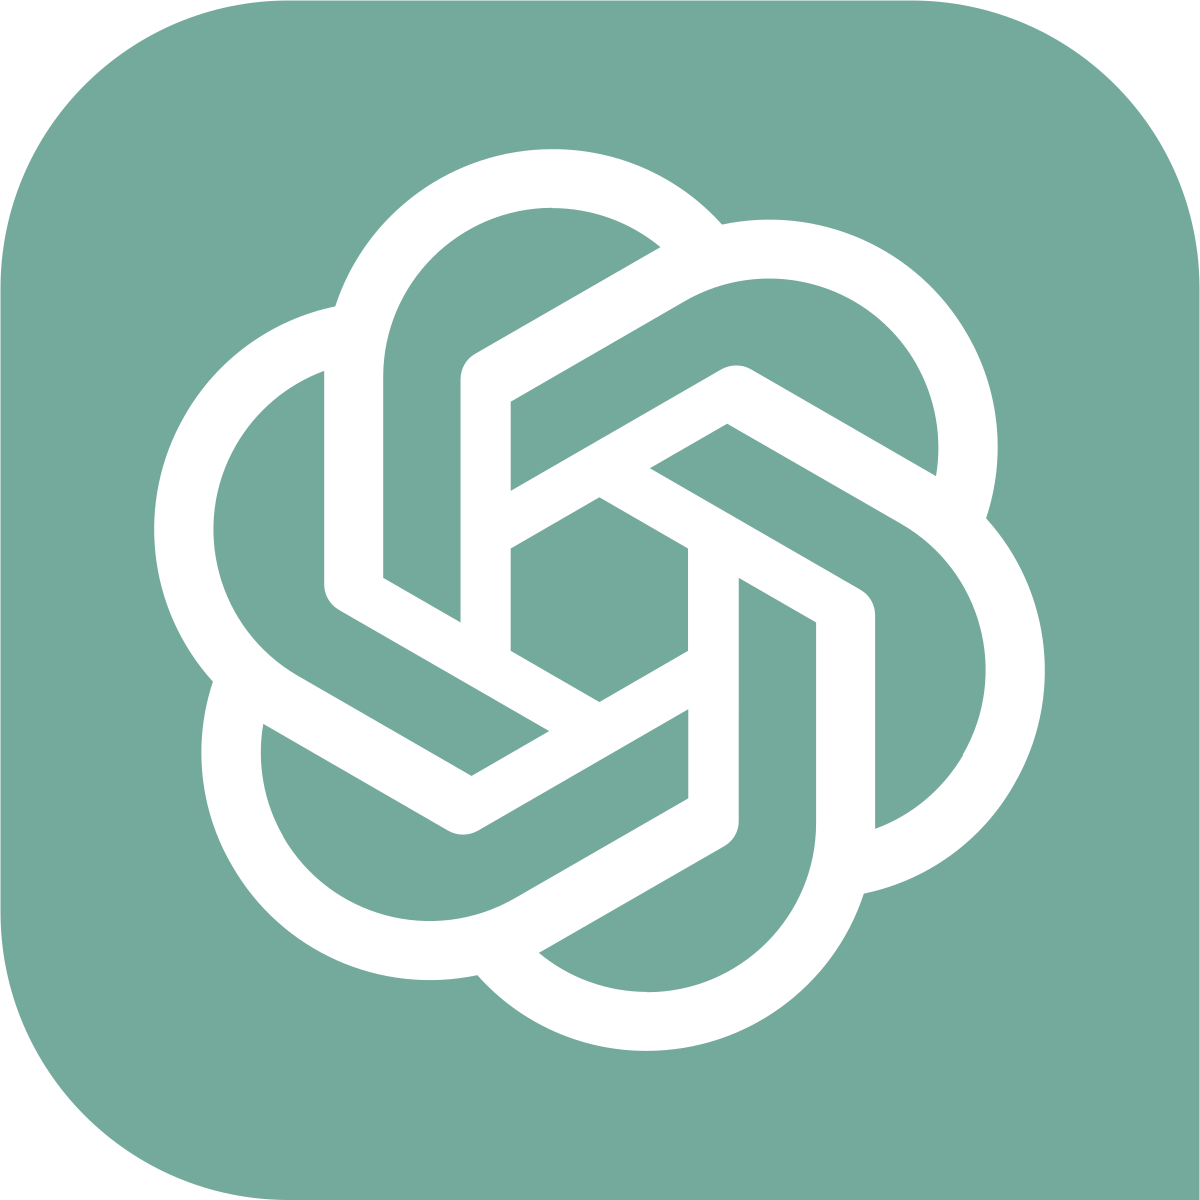
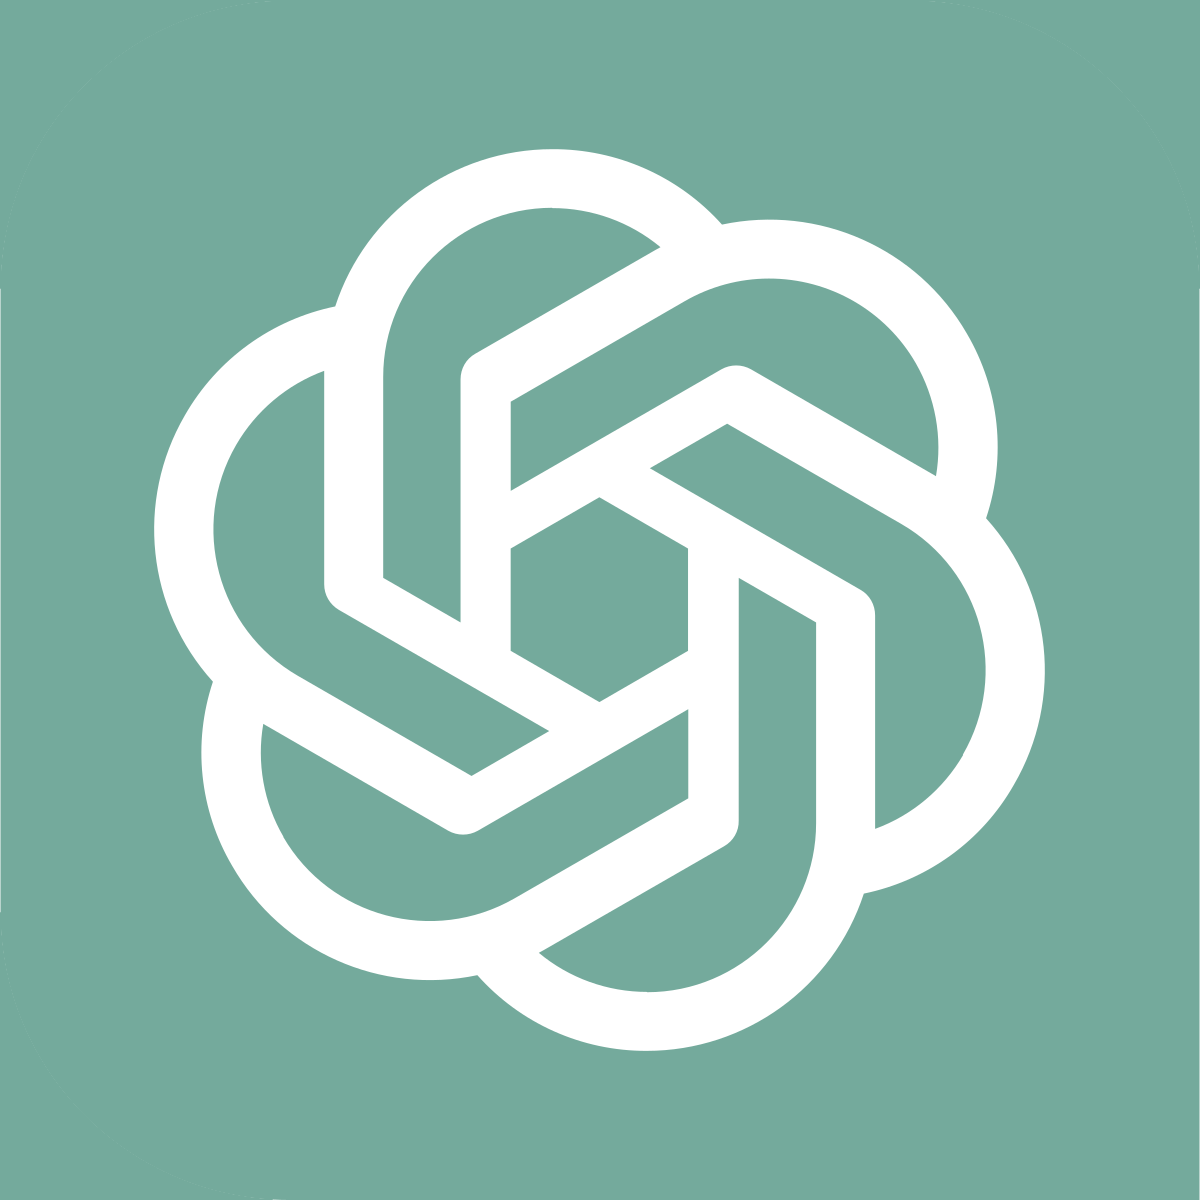
Tuned popup, added random link suggestions

Changed region(s): [[0.8017, 0.0, 1.0, 0.2158], [0.0, 0.8017, 0.2158, 1.0], [0.0, 0.0, 0.2158, 0.2158]]

diff --git a/static/outputs.css b/static/outputs.css
@@ -39,6 +39,7 @@ body {
   width: 18px;
   height: auto;
   margin-left: 5px;
+  box-shadow: 1px 1px 1px 1px rgba(0, 0, 0, 0.5);
 }
 
 #chat-container {
@@ -99,11 +100,24 @@ body {
   z-index: 997;
 }
 
-form {
+/* form {
   width: 100%;
   display: flex;
   justify-content: space-between;
   align-items: center;
+} */
+
+form {
+  display: flex;
+  flex-direction: column;
+  /* align-items: center; */
+  justify-content: center;
+  width: 100%;
+}
+
+form label,
+form input {
+  margin: 0px 1rem 0px 1rem;
 }
 
 /*
@@ -713,12 +727,16 @@ video {
 
 .popup {
   position: fixed;
-  top: 25%;
-  left: 0px;
-  height: 100%;
-  width: 100%;
+  top: 50%;
+  left: 50%;
+  transform: translate(-50%, -50%);
+  display: flex;
+  flex-direction: column;
   align-items: center;
-  justify-content: center;
+  /* background-color: rgba(255, 255, 255, 0); */
+  border-radius: 0.5rem;
+  padding: 0.5rem;
+  /* box-shadow: 0 10px 15px -3px rgba(0, 0, 0, 0.1), 0 4px 6px -4px rgba(0, 0, 0, 0.1); */
   z-index: 1000;
 }
 
@@ -728,41 +746,45 @@ video {
   background-color: rgba(255, 255, 255, 0.9);
   padding: 2rem;
   box-shadow: 0 10px 15px -3px rgba(0, 0, 0, 0.1), 0 4px 6px -4px rgba(0, 0, 0, 0.1);
+  max-width: 100%;
+  width: 100%;
+  height: 600px;
+  overflow: auto;
+  margin: auto;
+  scrollbar-width: 5px;
+  scrollbar-color: #888 #eee;
 }
 
-/* .popup {
-  position: fixed;
-  top: 25vh;
-  left: 25vh;
-  display: none;
-  height: 100%;
-  width: 100%;
-  align-items: center;
-  justify-content: center;
-  background-color: rgb(0 0 0 / var(--tw-bg-opacity));
-  --tw-bg-opacity: 0.7;
-} */
+.popup-content::-webkit-scrollbar {
+width: 10px;
+}
 
-/* .popup-content {
-  position: absolute;
-  border-radius: 0.5rem;
-  --tw-bg-opacity: 1;
-  background-color: rgb(255 255 255 / var(--tw-bg-opacity));
-  padding: 2rem;
-  --tw-shadow: 0 10px 15px -3px rgb(0 0 0 / 0.1), 0 4px 6px -4px rgb(0 0 0 / 0.1);
-  --tw-shadow-colored: 0 10px 15px -3px var(--tw-shadow-color), 0 4px 6px -4px var(--tw-shadow-color);
-  box-shadow: var(--tw-ring-offset-shadow, 0 0 #0000), var(--tw-ring-shadow, 0 0 #0000), var(--tw-shadow);
-} */
+.popup-content::-webkit-scrollbar-thumb {
+background-color: #888;
+border-radius: 5px;
+}
 
-/* .page-title {
-  margin: 1rem;
-  text-align: center;
-  font-size: 1.5rem;
-  line-height: 2rem;
-  font-weight: 700;
-  --tw-text-opacity: 1;
-  color: rgb(255 255 255 / var(--tw-text-opacity));
-} */
+.popup-content::-webkit-scrollbar-thumb:hover {
+background-color: #555;
+}
+
+.popup-content::-webkit-scrollbar-track {
+background-color: #eee;
+border-radius: 5px;
+}
+
+@media (max-width: 768px) {
+  .popup {
+    width: 90%;
+    max-width: 90%;
+  }
+}
+
+@media (max-width: 768px) {
+  .popup-content {
+    max-width: 90%;
+  }
+}
 
 .message-container {
   display: flex;
@@ -783,6 +805,7 @@ video {
   box-shadow: 0 2px 4px rgba(0, 0, 0, 1);
   align-self: flex-end;
   margin-left: auto;
+  max-width: 75%;
 }
 
 .chatbot-message {
@@ -800,11 +823,12 @@ video {
   box-shadow: 0 2px 4px rgba(0, 0, 0, 1);
   align-self: flex-start;
   margin-right: auto;
+  max-width: 75%;
 }
 
 input[type="text"],
 input[type="number"] {
-  margin: 1rem;
+  margin: 0px 1rem 0px 1rem;
   flex: 1 1 0%;
   border-radius: 0.25rem;
   border-width: 1px;
@@ -824,6 +848,7 @@ input[type="submit"] {
   padding: 1rem;
   --tw-text-opacity: 1;
   color: rgb(255 255 255 / var(--tw-text-opacity));
+  transition: background-color 0.3s;
 }
 
 input[type="submit"]:hover {
@@ -875,4 +900,10 @@ input[type="submit"]:hover {
 @keyframes spin {
   0% { transform: rotate(0deg); }
   100% { transform: rotate(360deg); }
+}
+
+input[type="text"],
+input[type="number"],
+input[type="submit"] {
+  margin: 0.5rem;
 }

diff --git a/templates/index.html b/templates/index.html
@@ -14,24 +14,35 @@
 
     <div class="popup" id="popup">
         <div class="popup-content">
-            <h2 style="color: black; font-weight: bold; size:20px; text-align: center; font-size: 2rem;">QuickYelp - AI Yelp Review Scanner</h2>
+            <h2 style="color: black; font-weight: bold; text-align: center; font-size: 1.5rem; margin: 0rem 0rem 1rem 0rem;">
+                QuickYelp - AI Yelp Review Scanner
+            </h2>
             <form method="post">
                 <label for="url">Yelp URL:</label>
                 <input type="text" name="url" autocomplete="off" required placeholder="https://www.yelp.com/biz/..."><br>
-                <label for="num_pages">Number of Review Pages (0-5):</label>
+                <label for="num_pages">How Many Pages of Reviews Should I Scan? (0-5):</label>
                 <input type="number" name="num_pages" min="0" max="5" autocomplete="off" required><br>
-                <input type="submit" value="Start ChatBot">
-            </form>
-            
+                <input type="submit" value="Start Chat">
+            </form>     
+
             {% if error_message != "" %}
-                <br><p class="chatbot-message" style="width: 100%;">
+                <br><p class="chatbot-message" style="width: 100%; max-width: 100%;">
                     {{ '🤖 '+error_message }}
                 </p><br>
             {% else %}
-                <br><p class="chatbot-message" style="width: 100%;">
+                <br><p class="chatbot-message" style="width: 100%; max-width: 100%;">
                     {{ '🤖 Welcome to QuickYelp! Please provide the necessary information about the business of interest.' }}
                 </p><br>
             {% endif %}
+
+            <br><p class="chatbot-message" style="width: 100%; max-width: 100%;">
+                {{ "☝ No business in mind? Try out this link! "}}
+                <a href="{{ sample_link }}" style="color: rgb(0, 136, 255); font-weight: lighter;">{{sample_link}}</a>
+            </p><br>
+
+            <br><p class="chatbot-message" style="width: 100%; max-width: 100%;">
+                {{ "❓ To put it simply, it takes more time to retrieve data from more pages. If you're looking for a quick overview, we recommend putting a lower number of pages!" }}
+            </p><br>
         </div>
     </div>
 

diff --git a/app.py b/app.py
@@ -39,6 +39,17 @@ ai_replies = [
     "We encountered an issue with the Yelp URL you provided. Please make sure it's correct and retry.",
     "Hmmm... It appears the Yelp URL you entered is not valid. Kindly check it and try once more."
 ]
+sample_links = [
+    "https://www.yelp.com/biz/nep-cafe-by-kei-concepts-fountain-valley-4",
+    "https://www.yelp.com/biz/baekjeong-irvine-irvine-2",
+    "https://www.yelp.com/biz/cucina-enoteca-irvine-irvine-2",
+    "https://www.yelp.com/biz/omomo-tea-shoppe-irvine",
+    "https://www.yelp.com/biz/eureka-irvine-2",
+    "https://www.yelp.com/biz/curry-house-coco-ichibanya-irvine",
+    "https://www.yelp.com/biz/85-c-bakery-cafe-irvine-irvine",
+    "https://www.yelp.com/biz/pepper-lunch-irvine",
+    "https://www.yelp.com/biz/stacks-pancake-house-irvine-2"
+]
 @app.route("/", methods=["GET", "POST"])
 def index():
     chat_history = []
@@ -52,7 +63,7 @@ def index():
             
             # Re-prompt user if url or num_pages is not valid
             if not validate_url(url):
-                return render_template("index.html", error_message=ai_replies[random.randint(0, 4)])
+                return render_template("index.html", error_message=ai_replies[random.randint(0, len(ai_replies)-1)], sample_link=sample_links[random.randint(0, len(sample_links)-1)])
 
             # Perform data scraping here using the provided URL and num_pages
             else:
@@ -92,7 +103,7 @@ def index():
             
             return jsonify({"chat_history": chat_history, "chatbot_reply": chatbot_reply})
     
-    return render_template("index.html", error_message="")
+    return render_template("index.html", error_message="", sample_link=sample_links[random.randint(0, len(sample_links)-1)])
 
 
 if __name__ == "__main__":

diff --git a/README.md b/README.md
@@ -1,4 +1,4 @@
-![](https://github.com/julian-z/QuickYelp/blob/main/static/images/quickyelp_logo_white_bordered.png)
+![](https://github.com/julian-z/QuickYelp/blob/main/static/images/quickyelp_logo_white_bordered_small.png)
 Developed by Julian Zulfikar, August 2023
 
 # About
